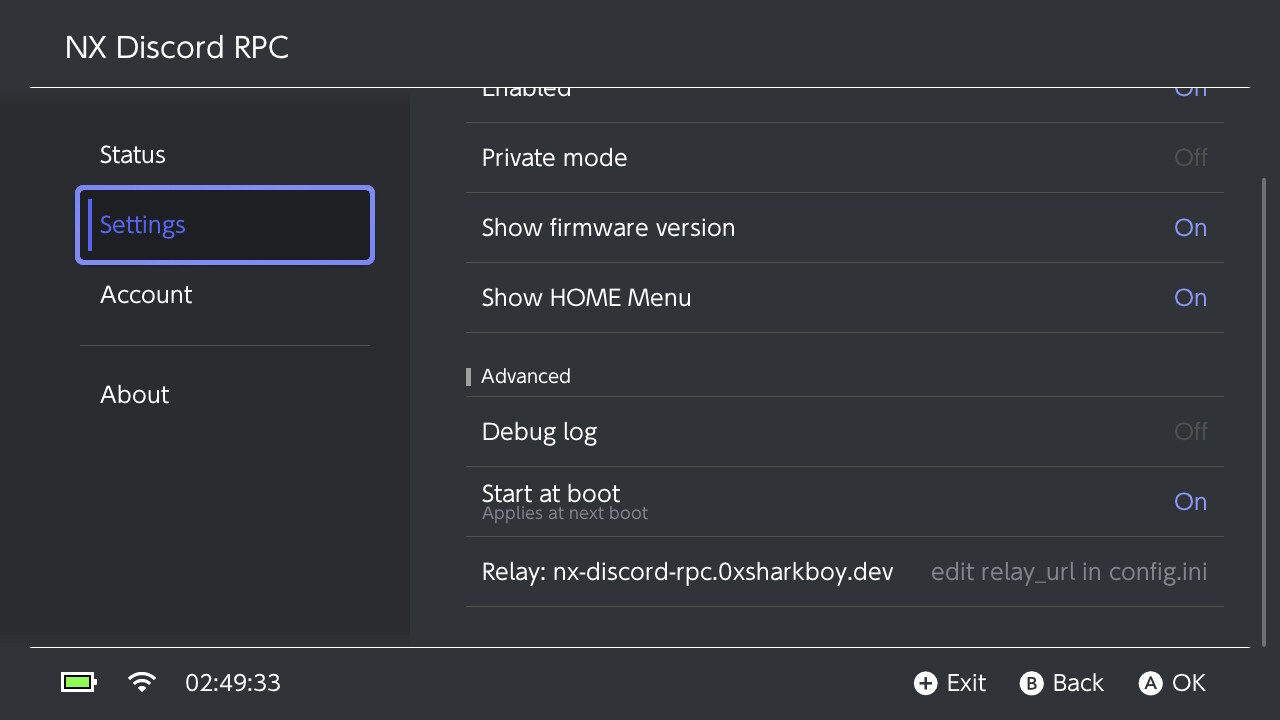
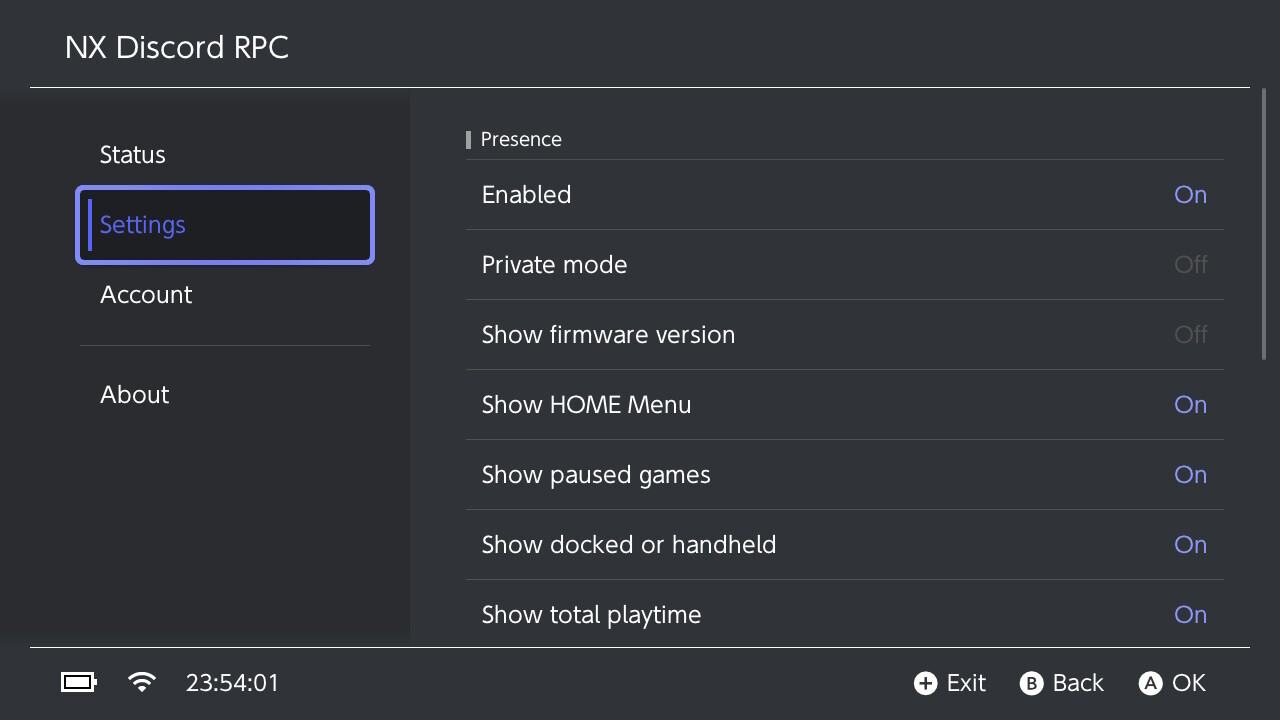
docs: v0.5.0 console screenshots

diff --git a/README.md b/README.md
@@ -138,6 +138,8 @@ the game. For a game set to Playing a game, the relay still receives the elapsed
 line (such as "Docked"), but no game name, title id, icon hash, playtime or icon upload. For a Hidden
 game it receives nothing at all.
 
+![Hidden games screen of the app](docs/images/switch/hidden-games.jpg)
+
 ## Test connection
 
 If nothing shows on your profile, open the Status tab and choose Test connection. It checks, in
@@ -157,6 +159,8 @@ same section, checks on demand. When the app cannot reach the sysmodule (it is n
 protocol does not match the app), the blocking screen offers Check for updates and Update too, since an
 update is often the fix; the update then starts the sysmodule. If the sysmodule does not start again
 after an update, the app says so: press Start now, or restart the console.
+
+![Updates section of the Settings tab](docs/images/switch/settings-updates.jpg)
 
 Update downloads `SHA256SUMS` and the four files of the release (`exefs.nsp`, `toolbox.json`,
 `nx-discord-rpc.ovl` and `nx-discord-rpc.nro`) from GitHub, over verified TLS. It checks each file
